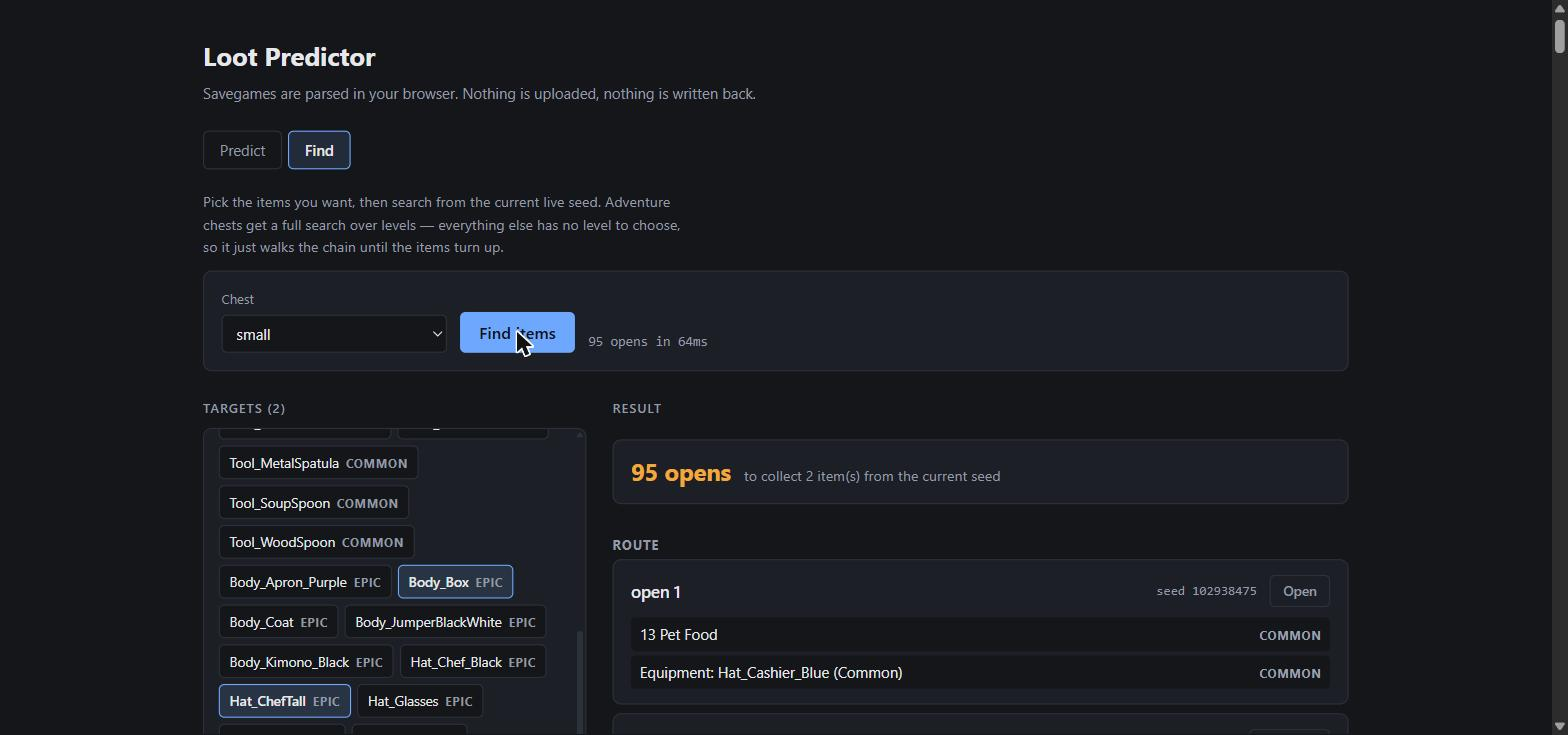
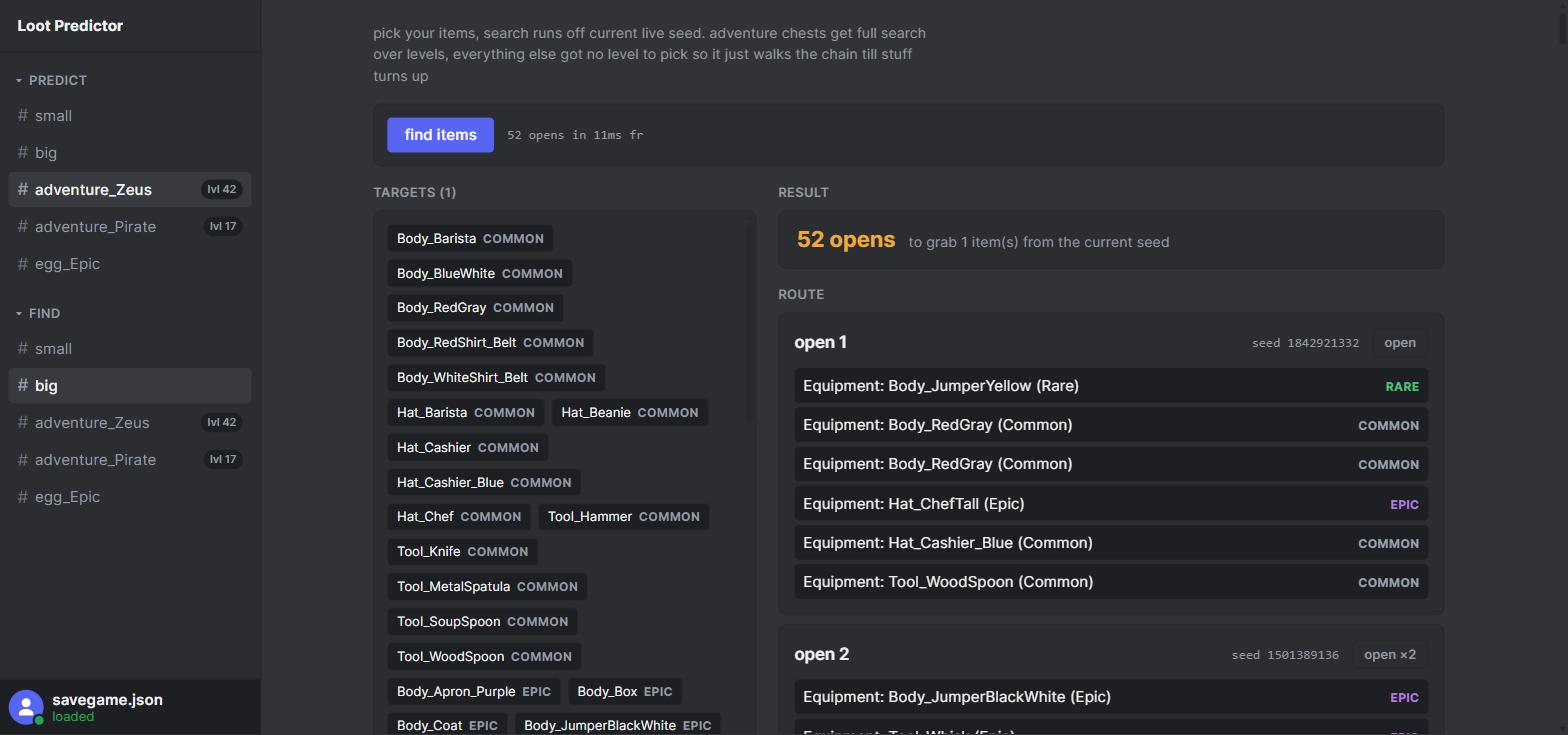
update README screenshots for the Discord-style UI

diff --git a/README.md b/README.md
@@ -1,6 +1,6 @@
 # Loot Predictor
 
-Reverse-engineered Unity PRNG + loot tables — predict chest drops before you open them.
+Reverse-engineered Unity PRNG + loot tables: predict chest drops before you open them.
 
 The game persists one int32 seed per chest and advances it on every open. Rebuild
 the generator and the draw order, and the whole future chain becomes readable:
@@ -12,16 +12,16 @@ written back to the save.
 
 ## How it works
 
-- **PRNG** — the engine does not use an LCG. It uses C#'s `System.Random`
+- **PRNG**: the engine does not use an LCG. It uses C#'s `System.Random`
   (Knuth subtractive / lagged Fibonacci), which Mono ships and which the
   persisted per-chest `Seed` is fed into. Ported draw for draw in
   `src/rng/unity-random.js`.
-- **Draw order** — per item: draw 1 picks the prize type from a weighted table,
+- **Draw order**: per item, draw 1 picks the prize type from a weighted table,
   draw 2 picks the item inside that rarity pool. After the last item, one final
   draw produces the seed persisted for the *next* open. That trailing draw is
   why chests chain.
-- **Loot tables** — mapped empirically from logged openings (`src/loot/tables.js`).
-- **Savegame** — the file is prefixed with a base64 integrity hash before the
+- **Loot tables**: mapped empirically from logged openings (`src/loot/tables.js`).
+- **Savegame**: the file is prefixed with a base64 integrity hash before the
   JSON body, so the parser slices from the first `{` to the last `}`.
 
 ## Run
@@ -31,7 +31,7 @@ written back to the save.
 
 ## Web UI
 
-### Predict — walk the chain
+### Predict: walk the chain
 
 Load a savegame, pick a chest, and read forward. "Open" advances the live seed
 so the tool stays in sync with the game; **Reset to savegame** rewinds to the
@@ -39,7 +39,7 @@ file's seed. Both the live seed and the opened history survive a refresh.
 
 ![Predict tab](docs/screenshots/predict.jpg)
 
-### Smart XP — pick the replay order
+### Smart XP: pick the replay order
 
 Adventure chests let you choose a level per open, and the level you pick for
 open #1 changes every draw after it. So the best route is a search, not a
@@ -49,7 +49,7 @@ free-openings budget suggests.
 
 ![Smart XP search](docs/screenshots/smart-xp.jpg)
 
-### Find — hunt specific items
+### Find: hunt specific items
 
 Pick the items you want and search from the current live seed. Adventure chests
 get a full search over levels; everything else has no level to choose, so it
@@ -126,16 +126,16 @@ Chest ids: `small`, `big`, `clan`, `pet`, `adventure_Zeus`, `adventure_Pirate`,
 
 ## Layout
 
-- `src/rng/unity-random.js` — PRNG reimplementation
-- `src/loot/tables.js` — loot table data, mapped empirically
-- `src/loot/simulate.js` — draw order and chest/egg/adventure simulation
-- `src/loot/xp.js` — per-item XP values
-- `src/save/parse.js` — savegame parsing
-- `src/solver/xp-path.js` — max-XP replay search
-- `src/solver/find-items.js` — cheapest-path item hunt
-- `src/ui/render.js` — DOM rendering helpers
-- `src/app.js` — UI wiring
-- `tools/predict.mjs` — CLI
+- `src/rng/unity-random.js`: PRNG reimplementation
+- `src/loot/tables.js`: loot table data, mapped empirically
+- `src/loot/simulate.js`: draw order and chest/egg/adventure simulation
+- `src/loot/xp.js`: per-item XP values
+- `src/save/parse.js`: savegame parsing
+- `src/solver/xp-path.js`: max-XP replay search
+- `src/solver/find-items.js`: cheapest-path item hunt
+- `src/ui/render.js`: DOM rendering helpers
+- `src/app.js`: UI wiring
+- `tools/predict.mjs`: CLI
 
 ## Notes
 
